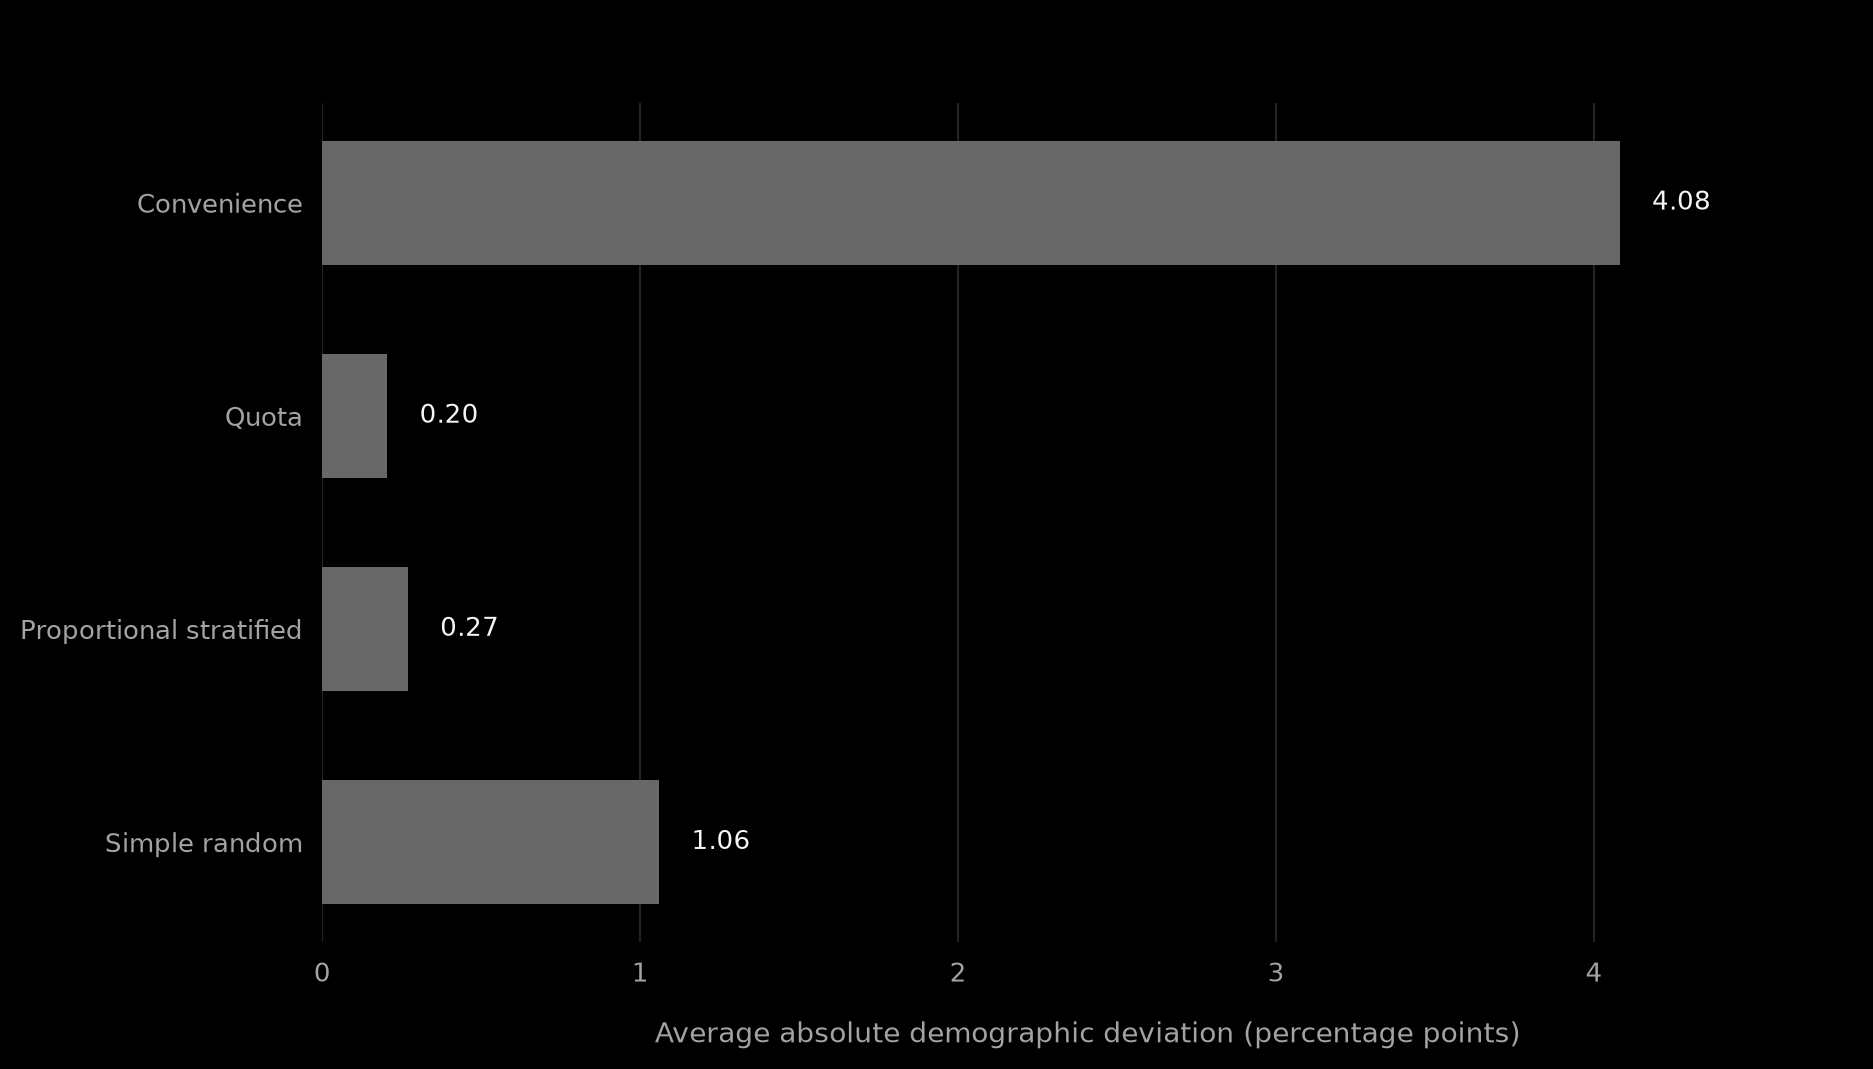
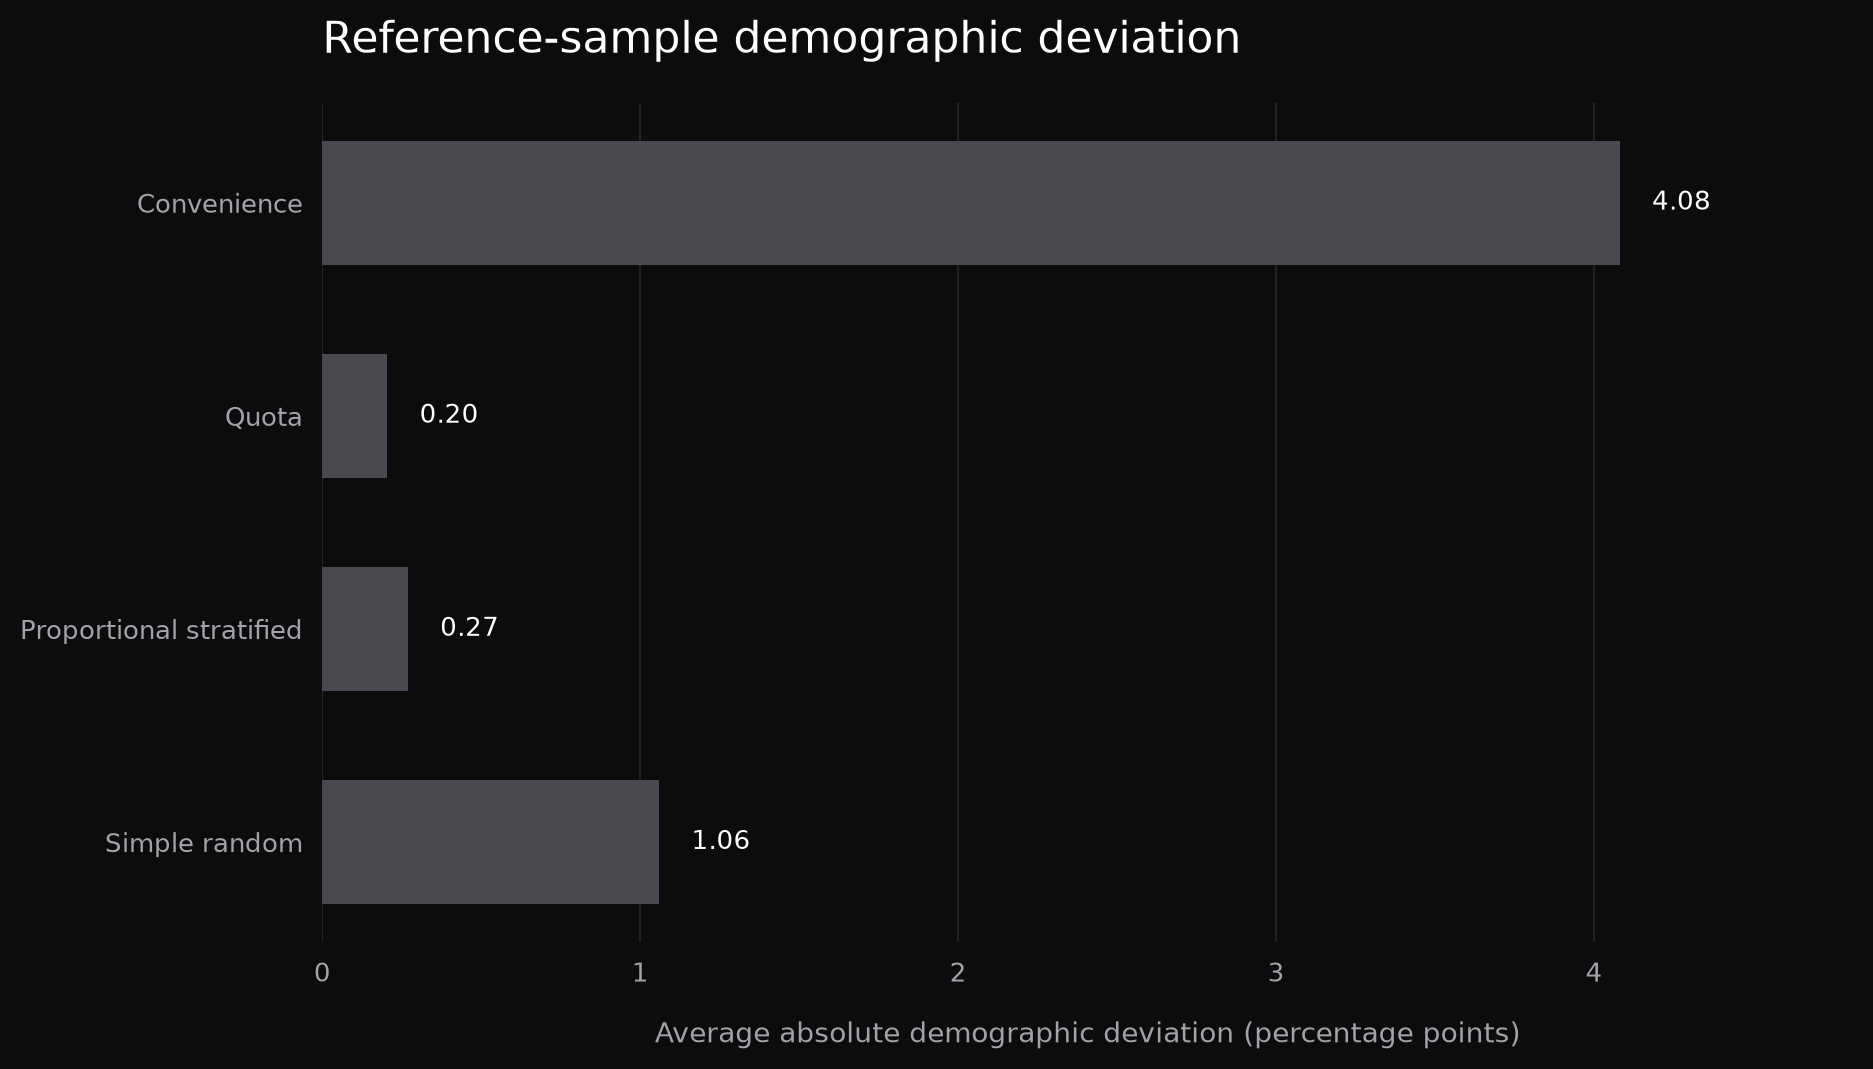
Align report figures with portfolio palette

diff --git a/analysis_core.py b/analysis_core.py
@@ -28,12 +28,12 @@ AGE_BANDS = ["18-24", "25-34", "35-44", "45-54", "55-64", "65-74"]
 GENDERS = ["Woman", "Man", "Non-binary / other"]
 REGIONS = ["London", "South", "Midlands", "North", "Scotland/Wales"]
 
-FIGURE_BACKGROUND = "#000000"
-FIGURE_TEXT = "#f6f6f6"
-FIGURE_MUTED = "#a3a3a3"
-FIGURE_LINE = "#393939"
-FIGURE_BAR = "#686868"
-FIGURE_ACCENT = "#64d2ff"
+FIGURE_BACKGROUND = "#0C0C0D"
+FIGURE_TEXT = "#FFFFFF"
+FIGURE_MUTED = "#A2A2A9"
+FIGURE_LINE = "#313135"
+FIGURE_BAR = "#494950"
+FIGURE_ACCENT = "#FFFFFF"
 
 
 def run_git(*args: str) -> subprocess.CompletedProcess[str]:
@@ -493,7 +493,7 @@ def create_figures(
         )
         ax.set_xticks(positions, list(STRATEGIES))
         ax.set_ylabel("Estimated mean concept interest", labelpad=12)
-        ax.set_title("Repeated-sample estimates", loc="left", pad=18, fontsize=16, fontweight=400)
+        ax.set_title("Repeated-sample estimates", loc="left", pad=18, fontsize=16, fontweight=400, color=FIGURE_TEXT)
         legend = ax.legend(frameon=False, loc="upper left", fontsize=9.5)
         for text in legend.get_texts():
             text.set_color(FIGURE_MUTED)
@@ -517,7 +517,7 @@ def create_figures(
         maximum = max(float(deviation.max()), 1.0)
         ax.set_xlim(0, maximum * 1.18)
         ax.set_xlabel("Average absolute demographic deviation (percentage points)", labelpad=12)
-        ax.set_title("Reference-sample demographic deviation", loc="left", pad=18, fontsize=16, fontweight=400)
+        ax.set_title("Reference-sample demographic deviation", loc="left", pad=18, fontsize=16, fontweight=400, color=FIGURE_TEXT)
         for bar, value in zip(bars, deviation.values):
             ax.text(
                 bar.get_width() + maximum * 0.025,
